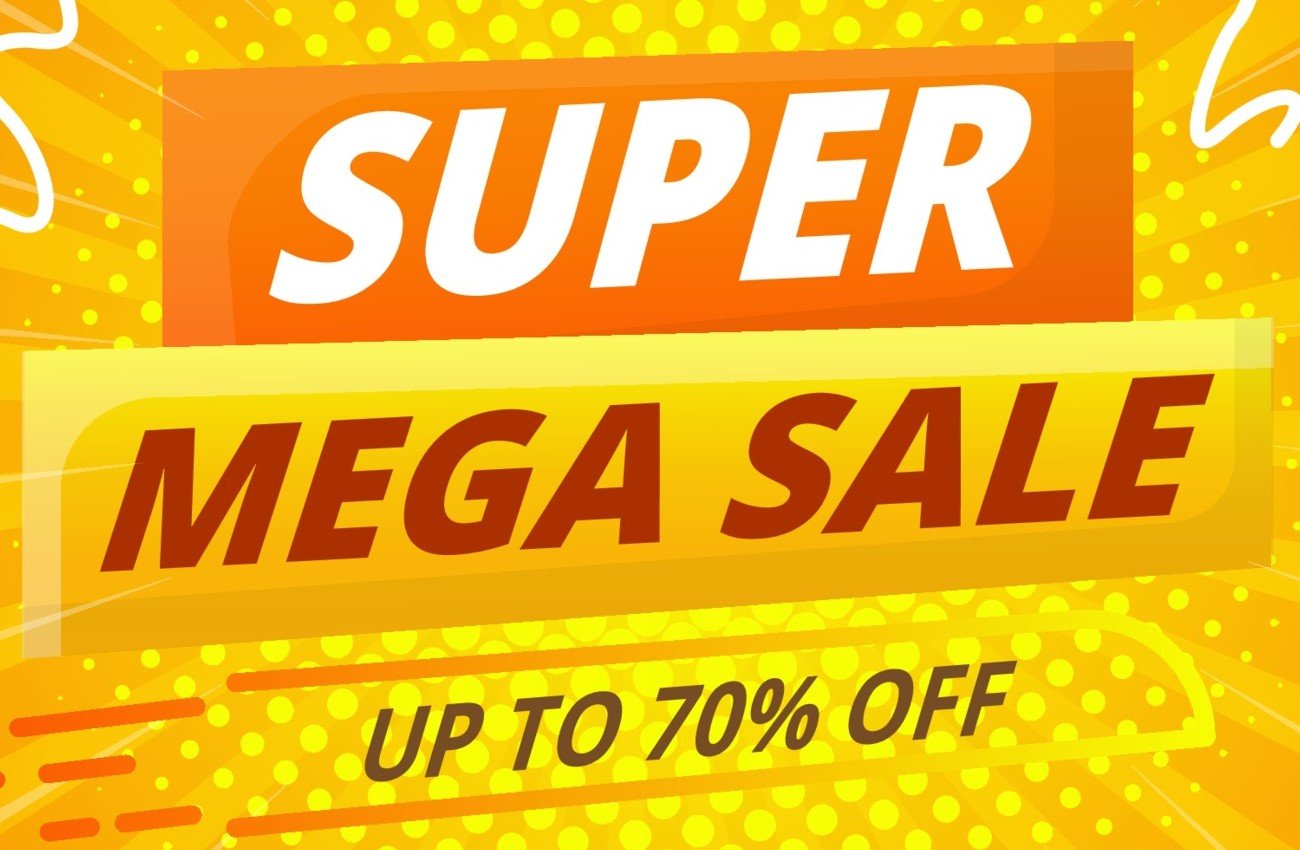
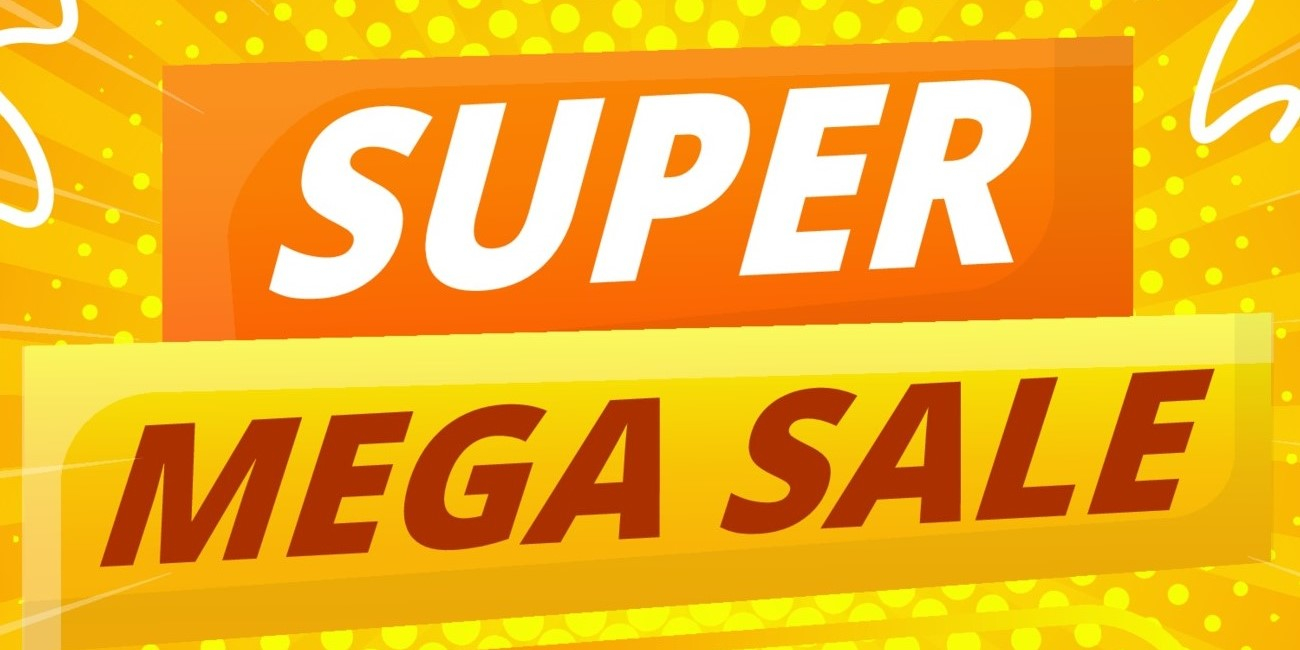
Added carusel

diff --git a/HTML_CSS/E-Commerce/css/style.css b/HTML_CSS/E-Commerce/css/style.css
@@ -121,11 +121,14 @@ header img{
 }
 .slider{
     width: 1300px;
-    height: 850px;
+    height: 650px;
     overflow: hidden;
 }
 .middle{
-
+    position: relative;
+    /*top: 50%;
+    left: 50%;
+    transform: translate(-50%, -50%);*/
 }
 .navigation{
     position: absolute;
@@ -133,14 +136,50 @@ header img{
     left:50%;
     transform: translateX(-50%);
     display: flex;
+    z-index: 5;
 }
 .bar{
-    height: 8px;
-    width: 8px;
+    height: 12px;
+    width: 12px;
     margin: 6px;
     cursor: pointer;
     background-color: #333;
-    border-radius: 50%;
-    opacity: .8;
+    border-radius: 7px;
+    opacity: .5;
     transition: all .4s ease;
+}
+.bar:hover {
+    opacity: 1;
+    width: 30px;
+    transform: scale(1.1);
+}
+
+input[name="r"]{
+    position: absolute;
+    visibility: hidden;
+}
+.slides{
+    width: 400%;
+    height: 100%;
+    display: flex;
+}
+.slide{
+    width: 25%;
+    transition: all .6s ease;
+}
+.slide img{
+    width: 100%;
+    height: 100%;
+}
+#r1:checked ~ .s1{
+    margin-left: 0;
+}
+#r2:checked ~ .s1{
+    margin-left: -25%;
+}
+#r3:checked ~ .s1{
+    margin-left: -50%;
+}
+#r4:checked ~ .s1{
+    margin-left: -75%;
 }

diff --git a/HTML_CSS/E-Commerce/index.html b/HTML_CSS/E-Commerce/index.html
@@ -69,10 +69,10 @@
                         <input type="radio" name="r" id="r3">
                         <input type="radio" name="r" id="r4">
 
-                        <div class="slide"><img src="" alt=""></div>
-                        <div class="slide"><img src="" alt=""></div>
-                        <div class="slide"><img src="" alt=""></div>
-                        <div class="slide"><img src="" alt=""></div>
+                        <div class="slide s1"><img src="/HTML_CSS/E-Commerce/img/carusel/1.jpg" alt=""></div>
+                        <div class="slide"><img src="/HTML_CSS/E-Commerce/img/carusel/2.jpg" alt=""></div>
+                        <div class="slide"><img src="/HTML_CSS/E-Commerce/img/carusel/3.jpg" alt=""></div>
+                        <div class="slide"><img src="/HTML_CSS/E-Commerce/img/carusel/4.jpg" alt=""></div>
                     </div>
                     <div class="navigation">
                         <label for="r1" class="bar"></label>
